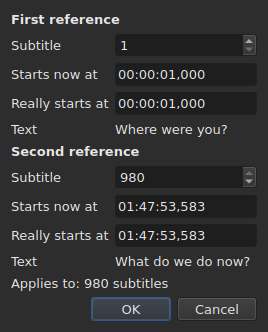
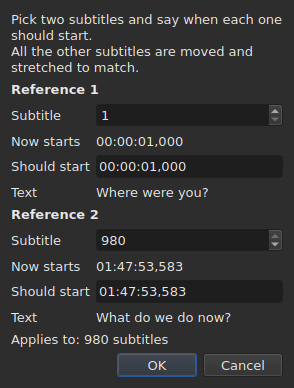
fix(gui): libellés de Transform Positions plus clairs
Une seule saisie par repère (Should start), l'heure actuelle et le texte en
simples étiquettes, et une phrase d'introduction.

diff --git a/src/lib/subedit/gui/transform_dialog.cpp b/src/lib/subedit/gui/transform_dialog.cpp
@@ -74,20 +74,28 @@ TransformDialog::TransformDialog(std::size_t targetCount,
     };
     const auto add = [this](const Row& row) {
         fields()->addRow(QStringLiteral("Subtitle"), row.number);
-        fields()->addRow(QStringLiteral("Starts now at"), row.current);
-        fields()->addRow(QStringLiteral("Really starts at"), row.target);
+        fields()->addRow(QStringLiteral("Now starts"), row.current);
+        fields()->addRow(QStringLiteral("Should start"), row.target);
         fields()->addRow(QStringLiteral("Text"), row.text);
     };
-    heading(QStringLiteral("First reference"));
+    auto* explanation =
+        new QLabel{QStringLiteral("Pick two subtitles and say when each one should start.\n"
+                                  "All the other subtitles are moved and stretched to match."),
+                   this};
+    explanation->setWordWrap(true);
+    fields()->addRow(explanation);
+
+    heading(QStringLiteral("Reference 1"));
     add(m_first);
-    heading(QStringLiteral("Second reference"));
+    heading(QStringLiteral("Reference 2"));
     add(m_second);
     finish();
 }
 
 TransformDialog::Row TransformDialog::makeRow(std::size_t subtitleCount) {
-    auto* current = new QLineEdit{this};
-    current->setReadOnly(true);
+    // A label, not a read-only field: a greyed field still looks like one to
+    // type in, and only the new start is the user's to change.
+    auto* current = new QLabel{this};
 
     auto* text = new QLabel{this};
     text->setWordWrap(true);

diff --git a/src/lib/subedit/gui/transform_dialog.hpp b/src/lib/subedit/gui/transform_dialog.hpp
@@ -118,7 +118,7 @@ private:
     /// One reference: what is typed, and what the number stands for.
     struct Row {
         QSpinBox* number;
-        QLineEdit* current;
+        QLabel* current;
         QLineEdit* target;
         QLabel* text;
     };

diff --git a/docs/manual/subedit-gui/operations.md b/docs/manual/subedit-gui/operations.md
@@ -134,18 +134,19 @@ sous-titres commencent réellement, et tout le reste suit, proportionnellement.
 
 Le dialogue demande deux fois la même chose : un numéro de sous-titre, et la
 position où son début appartient. Pour chaque repère, il montre **ce que ce
-numéro désigne** — l'heure à laquelle le sous-titre commence **maintenant**
-(lecture seule) et son texte — et ils suivent le numéro à mesure qu'on le
-change. Il n'y a pas à chercher dans le tableau quelle ligne est la `980`.
+numéro désigne** — son texte (`Text`) et l'heure à laquelle il commence
+**maintenant** (`Now starts`), en simples étiquettes — et ils suivent le numéro
+à mesure qu'on le change. **Un seul champ est à saisir par repère : `Should
+start`**, l'heure où ce sous-titre doit commencer. Il n'y a pas à chercher dans le tableau quelle ligne est la `980`.
 
-La position à saisir est **proposée à la valeur actuelle** : tant qu'on n'y
+`Should start` est **proposé à la valeur actuelle** : tant qu'on n'y
 touche pas, le repère dit « ce sous-titre est déjà où il doit être ». On ne
 change que ce qu'on veut changer. Le second repère est pré-rempli sur le dernier
 sous-titre du fichier — deux repères éloignés donnent une correction plus sûre
 que deux repères voisins.
 
 ![Le dialogue de transformation, palette claire : pour chaque repère, le
-numéro, l'heure actuelle, la nouvelle heure et le texte du
+numéro, le texte, l'heure actuelle et l'heure à saisir du
 sous-titre.](captures/transformation.png)
 
 ![Le même dialogue sous la palette sombre.](captures/transformation-sombre.png)
